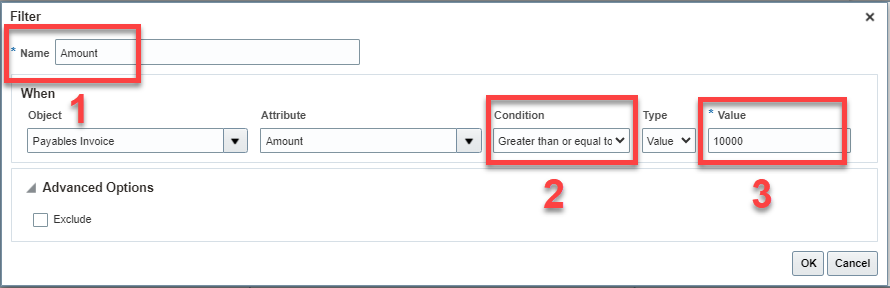
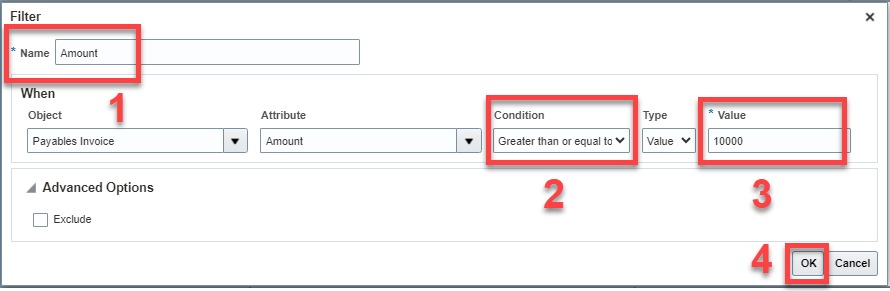
WMS 11179: Typos, grammar, pngs (#249)
* WMS 11179: Fixing typos

WMS 11179: Fixing typos

* WMS 11179: typos and updated screenshots

WMS 11179: typos and updated screenshots

* WMS 11179: fix typos

* WMS 11179: Updated lab 1

WMS 11179: Updated lab 1 (removed two steps) and lab 2 (fixed type for alternate image description)

* wms 11179: fixed formatting numbered list

wms 11179: fixed formatting numbered list

* wms id 1601: fixing broken image links

wms id 1601: fixing broken image links

* wms id 1601: fixing broken image links (part 2)

wms id 1601: fixing broken image links (part 2)

* wms id 1601: fixing broken image links (part 3)

wms id 1601: fixing broken image links (part 3)

* WMS ID 11149: new manifest for OCW AUH

WMS ID 11149: new manifest for OCW AUH

* WMS 11179: Updates to workshop

WMS 11179: Updates to workshop

* WMS 11179: Update order in manifest

WMS 11179: Update order in manifest

* WMS 11179: Added CloudAdventure URL

WMS 11179: Added CloudAdventure URL

* wms 11179: smaller updates

wms 11179: smaller updates

* WMS 11179 - minor updates

WMS 11179 - minor updates

* WMS 11179: Update Introduction

WMS 11179: Update Introduction

* WMS: 11179 Updated images and changes to account monitor

WMS: 11179 Updated images and changes to account monitor

* WMS 11179: Typos, grammar, pngs

WMS 11179: Typos, grammar, pngs

diff --git a/apps-cloud-adventure-cfo/04-predictive/predictive.md b/apps-cloud-adventure-cfo/04-predictive/predictive.md
@@ -25,19 +25,19 @@ In this activity, you will:
 
     > **Click** on the **‘2nd Vertical’** tab (on left side of screen)
 
-    ![Home Page](images/image002.png)
+    ![Home Page](images/step-2.png)
 
 3. Here is where you can manually create a forecast based on both drivers and revenue using both percentages and adjustments.
 
     > **Click** on the **‘Predict Volume’** Horizontal Tab
 
-    ![forecast](images/image003.png)
+    ![forecast](images/step-3.png)
 
 4. Here you can see a revenue forecast for unit sales by products. Let’s look at how you can use predictive planning to help you generate or validate this forecast.
 
     > Click the **‘Actions’** dropdown button
 
-    ![revenue forecast](images/image004.png)
+    ![revenue forecast](images/step-4.png)
 
 5. > Select the **‘Predictive Planning’** dropdown item
 
@@ -47,7 +47,7 @@ In this activity, you will:
 
     > Click on the [] **‘expand’** Icon
 
-    ![predictive volume](images/image007.png)
+    ![predictive volume](images/step-7.png)
 
 7. Expanding on the details you can see insights on the historical data as well as the accuracy of the prediction and which of the 13 prediction methods was most accurate. Let’s look at how you can change the time periods.
 
@@ -72,7 +72,7 @@ In this activity, you will:
 
     > Click the **‘Paste’** Icon
 
-    ![prediction values](images/image013.png)
+    ![prediction values](images/step-10.png)
 
 11. You are presented with the ability to paste either the prediction, best case, or worst case into your forecast. You can paste an entire forecast or a range of dates. You can also apply this data for all products or just the currently selected member. Let’s paste this forecast.
 
@@ -84,21 +84,27 @@ In this activity, you will:
 
     > Click **‘Auto Predict Volume Horizontal Tab’**
 
-    ![ predictive planning](images/image015.png)
+    ![ predictive planning](images/step-12.png)
 
-13. The system is providing you with an error message letting you know you have unsaved changes. Let’s proceed.
+13. You can see all of the values that have been pasted highlighted in yellow. Let’s look at how predictive planning can be automatically provided to you.
+
+    > Click **‘Auto Predict Volume Horizontal Tab’**
+
+    ![ predictive planning](images/step-13.png)
+
+14. The system is providing you with an error message letting you know you have unsaved changes. Let’s proceed.
 
     > Click **‘OK’**
 
     ![error message](images/image016.png)
 
-14. Here you are automatically presented with a most likely, worst-case, and best-case scenario. This gives you the ability to validate and compare your sales volume forecast.  Let’s return to the home and watch the rest of the walk through.
+15. Here you are automatically presented with a most likely, worst-case, and best-case scenario. This gives you the ability to validate and compare your sales volume forecast.  Let’s return to the home and watch the rest of the walk through.
 
     > Click the **‘Home’** Icon
     
-    ![walk through](images/image018.png)
+    ![walk through](images/step-15.png)
 
-15. 
+16. 
 
   Adventure awaits, show what you know, and rise to the top of the leader board!!!
 

diff --git a/apps-cloud-adventure-cfo/02-manage-monitor/account-monitor.md b/apps-cloud-adventure-cfo/02-manage-monitor/account-monitor.md
@@ -47,8 +47,6 @@ In this activity, you will:
 
   Account Groups provide the ability to group accounts that you want monitor along with various  other options that you will see in the next sections
 
-    > Click on the ‘Actual Vs Budget’ row 
-
     ![Home Page](images/image006.png)
 
 5. 
@@ -148,7 +146,7 @@ In this activity, you will:
 
 18. 
 
-  This view shows the all the detail account balances of the Account 64000.
+  This view shows all the detail account balances of the Account 64000.
 
     ![Home Page](images/image021.png)
 
@@ -178,18 +176,18 @@ In this activity, you will:
     
 22. 
 
-  Now you can review the balances in an excel pivot view that the Finance team loves to see and analyze data. 
+  Now you can review the balances in an excel pivot view that the Finance team loves to see and analyze. 
 
     ![Home Page](images/image027.png)
     
-23. 
+23.  
   Review the data to see which account under cost center 110 has the largest account balance, excluding the summary account 64000.
   
     > Click on **“15,344.24”** to drilldown to the details 
 
     ![Home Page](images/image028.png)
 
-24. 
+24.  
 
   Review the Detail Balance drill down, showing the beginning balance, period activity and ending balance. 
     
@@ -230,7 +228,7 @@ In this activity, you will:
 
 29. 
 
-  You can review the attachment and validate he cost by comparing to the invoice received from the vendor.
+  You can review the attachment and validate the cost by comparing to the invoice received from the vendor.
         
     ![Home Page](images/image034.png)
 

diff --git a/apps-cloud-adventure-cfo/03-risk-mgmt/risk-management.md b/apps-cloud-adventure-cfo/03-risk-mgmt/risk-management.md
@@ -105,6 +105,8 @@ In this activity, you will:
 
     > (3) Enter a number threshold limit in **Value** field (NOTE – Value should be less than 500,000)
 
+    > (4) Click OK
+
 
     ![Change condition](images/13-lab3-risk-management.png)
 
